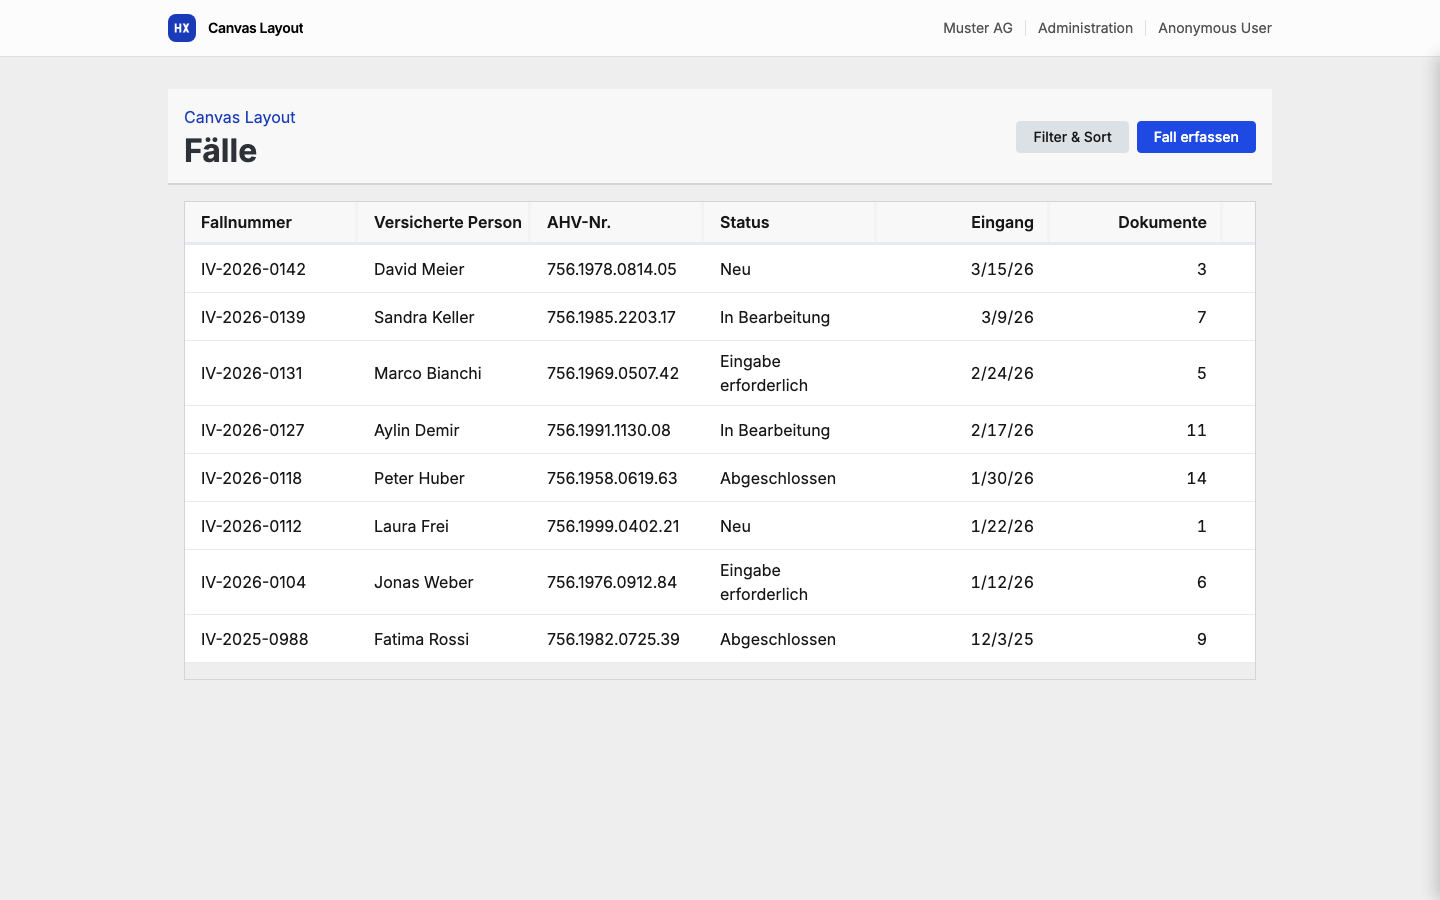
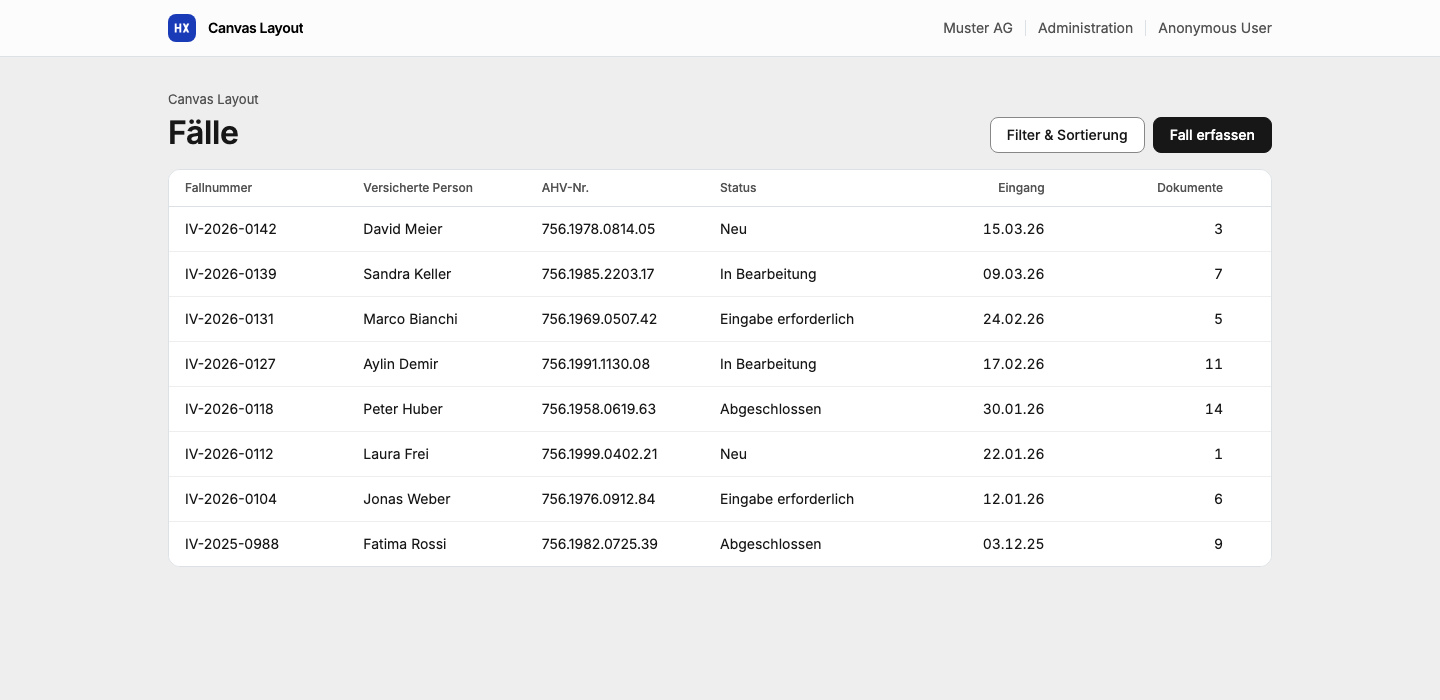
fix(data): put the quick filter bar inside the canvas table card (T-008)

diff --git a/src/pyhx/static/css/page-templates/canvas-shell.css b/src/pyhx/static/css/page-templates/canvas-shell.css
@@ -169,6 +169,28 @@
                 background-color: var(--hx-color-background);
             }
 
+            /* A DataTable's quick filters and search (T-008) are the top row
+               of the card, as in the draft: the bar takes the card's top
+               edge and draws the line above the header; the scroll
+               container continues the card below it. */
+            &:has(> .hx-table__filter-bar) {
+                .hx-table__filter-bar {
+                    /* Box */
+                    padding: 0.75rem var(--table-card--padding-inline);
+                    border: var(--hx-border-width-sm) solid var(--hx-color-neutral-200);
+                    border-radius: var(--table-card--radius) var(--table-card--radius) 0 0;
+
+                    /* Visual */
+                    background-color: var(--hx-color-background);
+                }
+
+                .hx-table__scroll-container {
+                    /* Box */
+                    border-top: 0;
+                    border-radius: 0 0 var(--table-card--radius) var(--table-card--radius);
+                }
+            }
+
             .hx-table thead tr th {
                 /* Box */
                 padding: 0.625rem var(--table-card--padding-inline);

diff --git a/changes/03--closed/T-008--quick-filters/spec.md b/changes/03--closed/T-008--quick-filters/spec.md
@@ -219,13 +219,13 @@ Implemented as specified, with these deviations and findings (from the plan, rem
 - **D1** `segment_control` got an optional `input_id_prefix` (ids on the radios), so htmx gives the focus back to the chosen pill after the table re-renders; not named in the spec.
 - **D2** After merging `main` (i18n, #20) the built-in defaults are translated: `QuickFilters.label` ("Quick filters") and `TableSearch.label` ("Search") are `Text` (`_l(...)`), with de/it/fr catalog entries; `QuickFilter.label` and `TableSearch.placeholder` accept `Text` too. The drawer's "Search" heading is translated as well.
 - **D3** The table reads the URL on first paint only for the parameters it uses (search only when the search field is shown), so pages with their own `?q=` or `?view=` are not affected.
-- **D4** The filter bar sits above the table's bordered scroll container, lined up with the cells' text; the draft's card around bar and table is the table card look of T-006.
+- **D4** In the canvas design the filter bar is the top row of the table card that T-006 (#29) introduced: on a DataPage it takes the card's top edge and radius and draws the line above the header, and the scroll container continues the card below it (`page-templates/canvas-shell.css`, in T-006's "Table on the canvas" block). In the default design the bar stays a plain row above the header.
 - **F1** htmx 2.0.4 keeps an `hx-preserve` element in out-of-band swaps, so the search field keeps typed characters, focus and caret while requests run (checked in the browser: "mei" + "er" typed across a request gives "meier", focus kept).
 - **F2** `str()` of a `str` enum is `"Status.new"`, so the search reads `Enum.value`.
-- **F3** Pre-existing, not part of this change: in the canvas DataPage the sticky page header and table header paint over the open drawer (fixed by T-006, #29), and the canvas page header breaks at phone width (T-006). The app shell sidebar lost its layout in German on `main` at the time; #34 fixed it, and the app shell screenshots are taken in German.
-- **F4** `main` needs `commons` 1.4.0; the shared virtualenv had 1.2.0, so checks ran with commons 1.4.0 on `PYTHONPATH`.
+- **F3** Pre-existing, not part of this change: the canvas page header breaks at phone width (T-006). The header painting over the drawer (fixed by #29) and the app shell sidebar in German (fixed by #34) are gone on the merged state; all screenshots are in German.
+- **F4** `main` needs `commons` 1.4.0; the shared virtualenv had 1.2.0, so checks ran with commons 1.4.0 (later 1.5.0, as `main` locks it) on `PYTHONPATH`.
 
-- **F5** The screenshots are kept in `screenshots/` next to this spec (locale de-CH): canvas DataPage [before](screenshots/canvas-shell--data-page--before.png) and [after](screenshots/canvas-shell--data-page--after.png), a [pill chosen](screenshots/canvas-shell--data-page--pill-active.png), a [search](screenshots/canvas-shell--data-page--search.png), the [drawer with the combined query](screenshots/canvas-shell--data-page--drawer.png), the [deep link from the dossier](screenshots/canvas-shell--data-page--deep-link.png), the ["custom" state](screenshots/canvas-shell--data-page--custom.png), [phone width](screenshots/canvas-shell--data-page--phone.png); app shell DataPage [after](screenshots/app-shell--data-page--after.png) and with a [pill chosen](screenshots/app-shell--data-page--pill-active.png).
+- **F5** The screenshots are kept in `screenshots/` next to this spec (locale de-CH, taken on the state merged with T-006): canvas DataPage [before](screenshots/canvas-shell--data-page--before.png) and [after](screenshots/canvas-shell--data-page--after.png), a [pill chosen](screenshots/canvas-shell--data-page--pill-active.png), a [search](screenshots/canvas-shell--data-page--search.png), the [drawer with the combined query](screenshots/canvas-shell--data-page--drawer.png), the [deep link from the dossier](screenshots/canvas-shell--data-page--deep-link.png), the ["custom" state](screenshots/canvas-shell--data-page--custom.png), [phone width](screenshots/canvas-shell--data-page--phone.png); app shell DataPage [after](screenshots/app-shell--data-page--after.png) and with a [pill chosen](screenshots/app-shell--data-page--pill-active.png).
 
 Rollout: pull request #30 from `feature/quick-filters`, released with the next minor version of pyhx. The apps adopt it by passing `table_quick_filters` / `table_search` and marking columns searchable; nothing changes for them otherwise.
 
